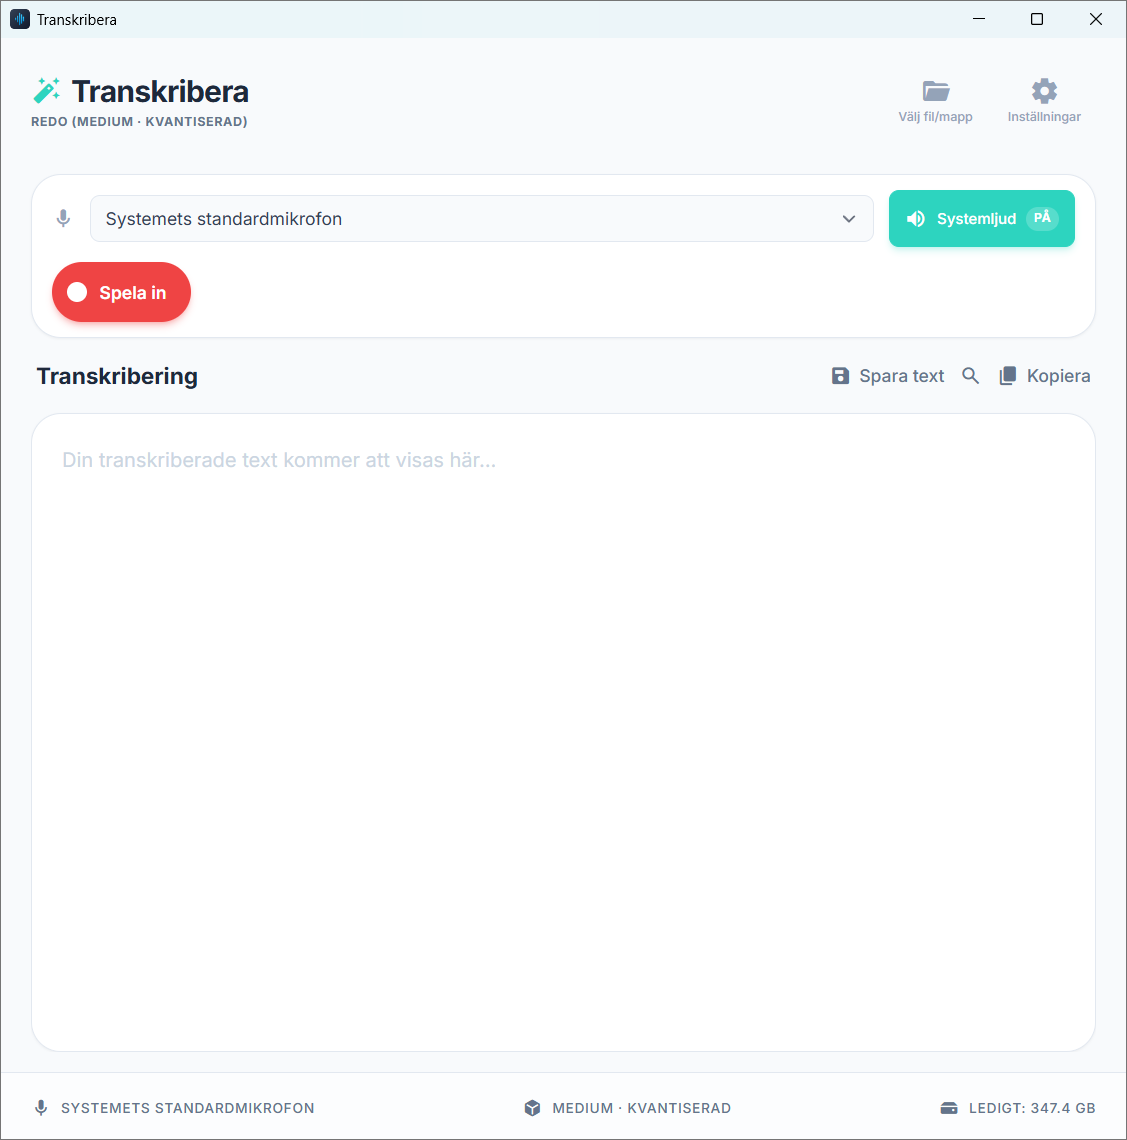
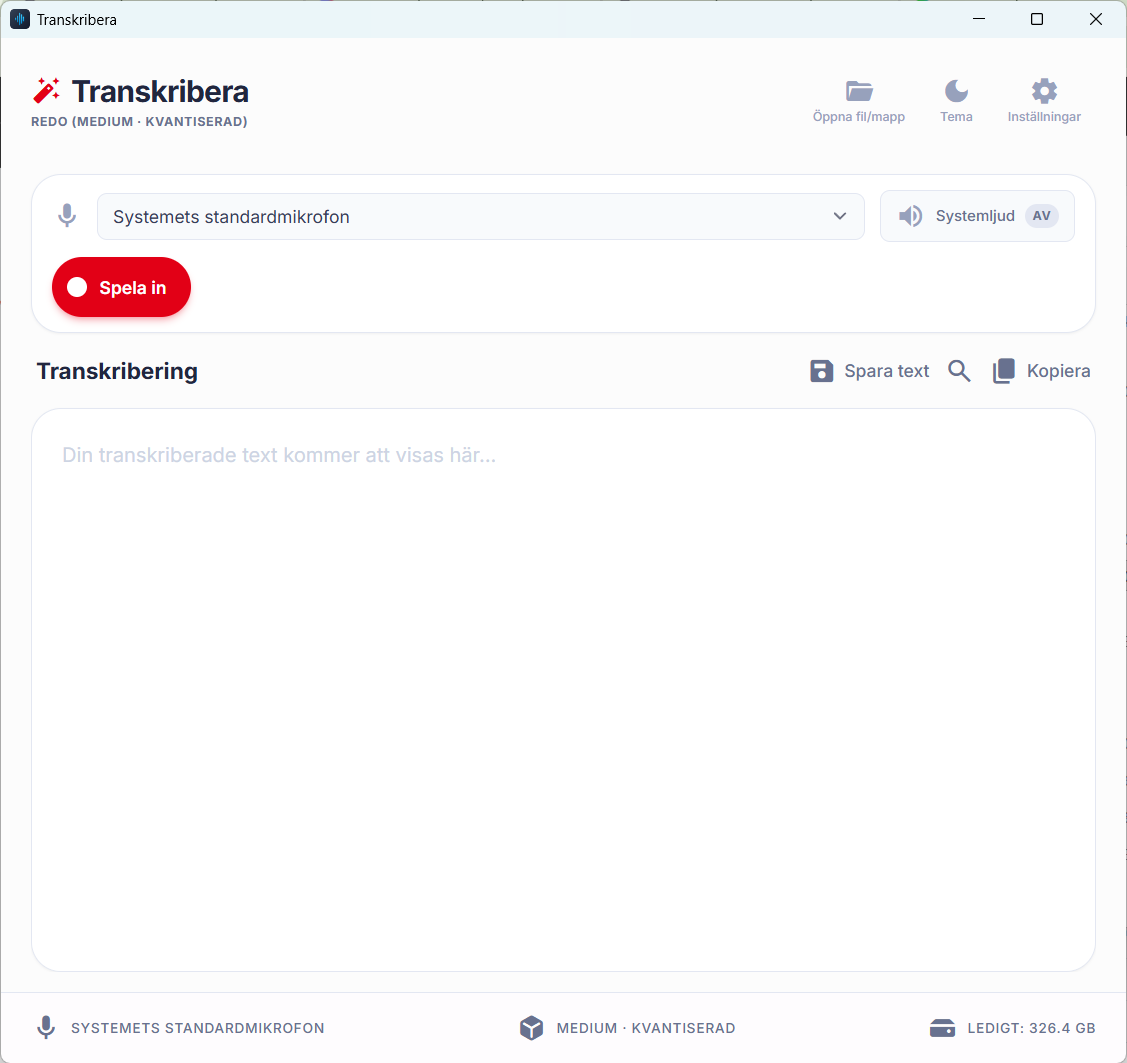
v1.6.2: "Spara för senare" med valfri namngivning av inspelningen
Löser ett verkligt verksamhetshinder: möten ligger tätt och användarna måste
kunna starta nästa inspelning direkt efter att ett möte avslutats. Tidigare
erbjöd post-recording-dialogen bara "Transkribera" (som låser appen i 30+ min
på en timmesinspelning) eller "Spara som ny ljudfil" (som öppnar en filväljare
och skriver en kopia) — ingen väg som bara stänger dialogen.

Samtidig inspelning + transkribering övervägdes men avfärdades: målgruppens
datorer klarar nätt och jämnt transkriberingen, och parallell körning skulle
göra båda långsammare och riskera krasch mitt i en inspelning.

Nytt:
- "Spara för senare" stänger dialogen direkt. Ljudet ligger redan i
  sessionsmappen, så inget mer behöver göras.
- Valfritt namn på inspelningen läggs till sessionsmappen:
  inspelning-20260903-142233-ledningsgrupp. Enter i fältet sparar direkt, så
  den som har bråttom slipper skriva. Namnet tillämpas oavsett vilket av de
  tre alternativen man väljer.
- Nytt Rust-kommando rename_session med namnsanering (Windows-otillåtna tecken
  → bindestreck, max 40 tecken, svenska tecken bevaras). Tidsstämpeln behålls
  som prefix så sortering, datumparsning och is_session_folder fortsätter fungera.
- "Spara som ny ljudfil" nedtonad till sekundär länk — funktionen finns redan
  i verktygsraden och ljudet är redan sparat.

Fixar:
- sessionStartFromFolderName-regexen hade $ i slutet och hade brutits av ett
  namnsuffix, vilket gett fel starttid vid återöppning av en namngiven session.
[…]

diff --git a/src/main.js b/src/main.js
@@ -459,7 +459,9 @@ async function setupEventListeners() {
 
 // Parsar sessionens starttid ur mappnamnet (inspelning-YYYYMMDD-HHMMSS / recording-<unix>).
 function sessionStartFromFolderName(folderName) {
-  const newFmt = folderName.match(/^inspelning-(\d{4})(\d{2})(\d{2})-(\d{2})(\d{2})(\d{2})$/);
+  // Tillåter valfritt namnsuffix efter tidsstämpeln, t.ex.
+  // "inspelning-20260903-142233-ledningsgrupp" (se rename_session i Rust).
+  const newFmt = folderName.match(/^inspelning-(\d{4})(\d{2})(\d{2})-(\d{2})(\d{2})(\d{2})(?:-.*)?$/);
   const oldFmt = folderName.match(/^recording-(\d+)$/);
   if (newFmt) {
     const [, y, m, d, hh, mm, ss] = newFmt;
@@ -1515,6 +1517,13 @@ function sessionDirFromRecordingPath(p) {
 
 function showPostRecordingActions(sessionDir) {
   document.getElementById("post-recording-actions")?.classList.remove("hidden");
+  // Namnfältet döper om sessionsmappen — visa det bara när en sådan finns.
+  // Mac-flödet (MediaRecorder, type "segments") har inga filer på disk ännu,
+  // så där finns ingen mapp att namnge.
+  const nameRow = document.getElementById("session-name-row");
+  const nameInput = document.getElementById("session-name-input");
+  if (nameInput) nameInput.value = "";
+  if (nameRow) nameRow.classList.toggle("hidden", !sessionDir);
   const btn = document.getElementById("post-recording-path");
   const txt = document.getElementById("post-recording-path-text");
   if (btn && txt) {
@@ -2928,13 +2937,59 @@ btnPlayPause && btnPlayPause.addEventListener("click", () => {
 // Systemljud-toggle — uppdatera direkt utan spara-krav
 // -------------------------------------------------------------
 // Post-recording action buttons
-document.getElementById("btn-start-transcription")?.addEventListener("click", () => startPendingTranscription());
+
+// Döper om sessionsmappen om användaren skrivit ett namn. Körs före varje
+// åtgärd i dialogen så namnet aldrig tappas. Tomt fält = ingen omdöpning.
+// Uppdaterar pendingRecording.filePath eftersom sökvägen ändras vid omdöpning.
+async function applySessionName() {
+  const input = document.getElementById("session-name-input");
+  const name = input ? input.value.trim() : "";
+  if (!name) return;
+  try {
+    const newPath = await invoke("rename_session", { name });
+    if (pendingRecording && pendingRecording.type === "wav-file") {
+      pendingRecording.filePath = newPath;
+    }
+    logToFile(`applySessionName: sessionen sparad som "${name}"`);
+  } catch (e) {
+    // Omdöpning är en bekvämlighet — misslyckas den ska flödet ändå fortsätta utan
+    // att stoppa användaren med en dialog. Inspelningen finns kvar oavsett; felet
+    // hamnar i loggen för felsökning.
+    const msg = typeof e === "string" ? e : e.message || String(e);
+    logToFile(`applySessionName: kunde inte döpa om: ${msg}`);
+  } finally {
+    if (input) input.value = "";
+  }
+}
+
+document.getElementById("btn-start-transcription")?.addEventListener("click", async () => {
+  await applySessionName();
+  startPendingTranscription();
+});
+
+// "Spara för senare" — stänger dialogen direkt. Ljudet ligger redan i sessionsmappen,
+// så inget mer behöver göras. Detta är vägen vidare till nästa möte.
+document.getElementById("btn-save-for-later")?.addEventListener("click", async () => {
+  await applySessionName();
+  hidePostRecordingActions();
+  pendingRecording = null;
+  updateBadge("Inspelning sparad", "");
+});
+
+// Enter i namnfältet = spara för senare (snabbaste vägen vidare)
+document.getElementById("session-name-input")?.addEventListener("keydown", (e) => {
+  if (e.key === "Enter") {
+    e.preventDefault();
+    document.getElementById("btn-save-for-later")?.click();
+  }
+});
 // Klick på sökvägen i post-recording-dialogen öppnar sessionsmappen i Utforskaren
 document.getElementById("post-recording-path")?.addEventListener("click", async () => {
   const p = document.getElementById("post-recording-path")?.dataset.path;
   if (p) { try { await window.__TAURI__.opener.openPath(p); } catch (_) {} }
 });
 document.getElementById("btn-save-audio-only")?.addEventListener("click", async () => {
+  await applySessionName();
   hidePostRecordingActions();
   pendingRecording = null;
   btnRedo.classList.remove("hidden"); btnRedo.style.display = "inline-flex";

diff --git a/src/index.html b/src/index.html
@@ -204,18 +204,33 @@
             <span class="material-symbols-outlined text-sm shrink-0">folder_open</span>
             <span id="post-recording-path-text" class="truncate"></span>
           </button>
+          <!-- Valfritt namn — gör sessionsmappen igenkännbar. Tom = bara tidsstämpel.
+               Enter sparar direkt, så den som har bråttom slipper skriva. -->
+          <div id="session-name-row" class="hidden w-full max-w-xs">
+            <input type="text" id="session-name-input" maxlength="40"
+              placeholder="Namn på inspelningen (valfritt)"
+              class="w-full px-3 py-2.5 text-sm text-center bg-white dark:bg-slate-800 border border-slate-200 dark:border-slate-700 rounded-xl text-slate-700 dark:text-slate-300 placeholder:text-slate-400 focus:outline-none focus:border-primary focus:ring-1 focus:ring-primary" />
+          </div>
+
           <div class="flex flex-col sm:flex-row gap-3 w-full max-w-xs">
             <button id="btn-start-transcription"
               class="flex-1 flex items-center justify-center gap-2 px-5 py-3 bg-primary hover:bg-primary-hover text-white font-semibold rounded-2xl transition-colors shadow-sm">
               <span class="material-symbols-outlined text-base">transcribe</span>
-              <span>Transkribera</span>
+              <span>Transkribera nu</span>
             </button>
-            <button id="btn-save-audio-only"
+            <button id="btn-save-for-later"
               class="flex-1 flex items-center justify-center gap-2 px-5 py-3 bg-slate-100 dark:bg-slate-800 hover:bg-slate-200 dark:hover:bg-slate-700 text-slate-700 dark:text-slate-300 font-semibold rounded-2xl transition-colors">
-              <span class="material-symbols-outlined text-base">audio_file</span>
-              <span>Spara som ny ljudfil</span>
+              <span class="material-symbols-outlined text-base">schedule</span>
+              <span>Spara för senare</span>
             </button>
           </div>
+
+          <!-- Export till valfri plats — ljudet är redan sparat, så detta är sekundärt. -->
+          <button id="btn-save-audio-only"
+            class="flex items-center gap-1.5 text-xs font-medium text-slate-500 dark:text-slate-400 hover:text-primary transition-colors">
+            <span class="material-symbols-outlined text-sm">audio_file</span>
+            <span>Spara en kopia som ljudfil…</span>
+          </button>
         </div>
 
         <!-- Loading overlay -->

diff --git a/src-tauri/src/lib.rs b/src-tauri/src/lib.rs
@@ -272,6 +272,83 @@ fn get_recording_path(state: tauri::State<'_, AppState>) -> Result<String, Strin
         .ok_or_else(|| "Ingen aktiv inspelning".to_string())
 }
 
+/// Rensar ett användarangivet sessionsnamn så det duger som mappnamn på Windows.
+/// Otillåtna tecken blir bindestreck; längden kapas. Tom sträng → None.
+fn sanitize_session_name(raw: &str) -> Option<String> {
+    let cleaned: String = raw
+        .trim()
+        .chars()
+        .map(|c| match c {
+            // Reserverade i Windows-filnamn, plus path-separatorer
+            '<' | '>' | ':' | '"' | '/' | '\\' | '|' | '?' | '*' => '-',
+            c if c.is_control() => '-',
+            c => c,
+        })
+        .collect();
+    // Kollapsa upprepade bindestreck/mellanslag och trimma kanterna
+    let mut out = String::with_capacity(cleaned.len());
+    let mut prev_sep = false;
+    for c in cleaned.chars() {
+        let is_sep = c == '-' || c == ' ';
+        if is_sep {
+            if !prev_sep && !out.is_empty() { out.push('-'); }
+            prev_sep = true;
+        } else {
+            out.push(c);
+            prev_sep = false;
+        }
+    }
+    let out = out.trim_matches('-').chars().take(40).collect::<String>();
+    let out = out.trim_matches('-').to_string();
+    // Windows tillåter inte mappnamn som slutar på punkt
+    let out = out.trim_end_matches('.').to_string();
+    if out.is_empty() { None } else { Some(out) }
+}
+
+/// Döper om den senaste sessionsmappen genom att lägga till ett namn efter
+/// tidsstämpeln: `inspelning-20260903-142233-ledningsgrupp`.
+/// Tidsstämpeln behålls som prefix så sortering och datumparsning fortsätter fungera.
+/// Uppdaterar recording_path så efterföljande uppspelning/transkribering hittar filen.
+#[tauri::command]
+fn rename_session(state: tauri::State<'_, AppState>, name: String) -> Result<String, String> {
+    let recorder = state.inner().audio_recorder.lock()
+        .map_err(|e| format!("Recorder-lås: {e}"))?;
+    let mut path_guard = recorder.recording_path.lock()
+        .map_err(|e| format!("Path-lås: {e}"))?;
+    let current = path_guard.clone()
+        .ok_or_else(|| "Ingen inspelning att döpa om".to_string())?;
+
+    let Some(clean) = sanitize_session_name(&name) else {
+        // Inget namn angivet — behåll mappen som den är.
+        return Ok(current.to_string_lossy().into_owned());
+    };
+
+    let session_dir = current.parent()
+        .ok_or_else(|| "Kunde inte hitta sessionsmappen".to_string())?;
+    let old_name = session_dir.file_name()
+        .and_then(|n| n.to_str())
+        .ok_or_else(|| "Ogiltigt mappnamn".to_string())?;
+    let parent = session_dir.parent()
+        .ok_or_else(|| "Kunde inte hitta överordnad mapp".to_string())?;
+
+    // Bygg nytt namn: behåll allt fram till ev. tidigare suffix.
+    let new_name = format!("{old_name}-{clean}");
+    let new_dir = parent.join(&new_name);
+    if new_dir.exists() {
+        return Err(format!("Det finns redan en mapp som heter {new_name}"));
+    }
+
+    std::fs::rename(session_dir, &new_dir)
+        .map_err(|e| format!("Kunde inte döpa om mappen: {e}"))?;
+
+    let file_name = current.file_name()
+        .ok_or_else(|| "Ogiltigt filnamn".to_string())?;
+    let new_path = new_dir.join(file_name);
+    *path_guard = Some(new_path.clone());
+    log_line(&format!("rename_session: {} → {}", old_name, new_name));
+    Ok(new_path.to_string_lossy().into_owned())
+}
+
 /// Utökar asset-protokollets scope vid runtime till EXAKT en fil, så att <audio>
 /// kan streama just den filen via convertFileSrc. Asset-scopen i tauri.conf.json är tom
 /// (`[]`) — vi tillåter aldrig hela filsystemet. JS anropar detta precis innan spelaren
@@ -1327,6 +1404,7 @@ pub fn run() {
             log_message,
             append_mic_chunk,
             get_recording_path,
+            rename_session,
             allow_asset_path
         ])
         .run(tauri::generate_context!())

diff --git a/README.md b/README.md
@@ -16,7 +16,10 @@ Transkribera använder [KB-whisper](https://huggingface.co/KBLab/kb-whisper-smal
 - **🔒 Integritet:** Ditt ljud stannar på din dator. Inget skickas till externa servrar. [Integritetspolicy](PRIVACY.md)
 - **⚡ Hårdvaruaccelererad:** Vulkan (Windows) och Metal (Mac) utnyttjar din GPU för snabbare transkribering. Kan stängas av för äldre grafikkort.
 - **🎙 Mötesinspelning (Windows):** Spela in både mikrofon och datorljud från t.ex. Teams/Zoom — via WASAPI Endpoint Loopback (fungerar från Windows 7) eller Stereo Mix (se guide nedan).
+- **🔌 Fungerar helt offline:** Inget hämtas från internet vid start — allt utseende och alla typsnitt finns i programmet. Endast modellnedladdning kräver nätverk, och den sker bara en gång.
 - **💽 Automatisk sparning till disk:** Allt inspelat material streamas direkt till en tidsstämplad sessionsmapp (`inspelning-...`) under inspelningens gång — skyddar mot dataförlust vid krasch eller strömavbrott. Efter stopp visas sökvägen till mappen direkt i appen (klicka för att öppna i Utforskaren).
+- **⏭ Spara för senare:** Efter en inspelning kan du välja *Transkribera nu* eller *Spara för senare* — det senare stänger dialogen direkt så du hinner starta nästa möte. Ge inspelningen ett valfritt namn så blir sessionsmappen lätt att hitta igen (`inspelning-20260903-142233-ledningsgrupp`).
+- **🌗 Ljust och mörkt tema:** Växla direkt med temaknappen i appens överkant. Första gången följer appen datorns inställning.
 - **📂 Importera fil eller mapp:** Transkribera valfri ljudfil — MP3, M4A, AAC, WAV, OGG, FLAC, MP4, WebM, MKV — eller öppna en hel sessionsmapp med streamat material (t.ex. en inspelning som inte avslutades korrekt). Avkodningen sker helt i Rust (Symphonia) utan att belasta JS-heapen — fungerar även för inspelningar på flera timmar.
 - **🎚 Antialiaserad ljudbehandling:** Lågpassfilter (cutoff 7 kHz) före nedsampling till 16 kHz — minskar aliasing-artefakter från 44.1k/48k-källor (iPhone, Mac mic) för bättre transkribering.
 - **⏹ Avbryt transkribering:** Avbryt pågående transkribering när som helst med en knapp. Inspelad audio bevaras alltid och kan sparas även efter avbrott.
